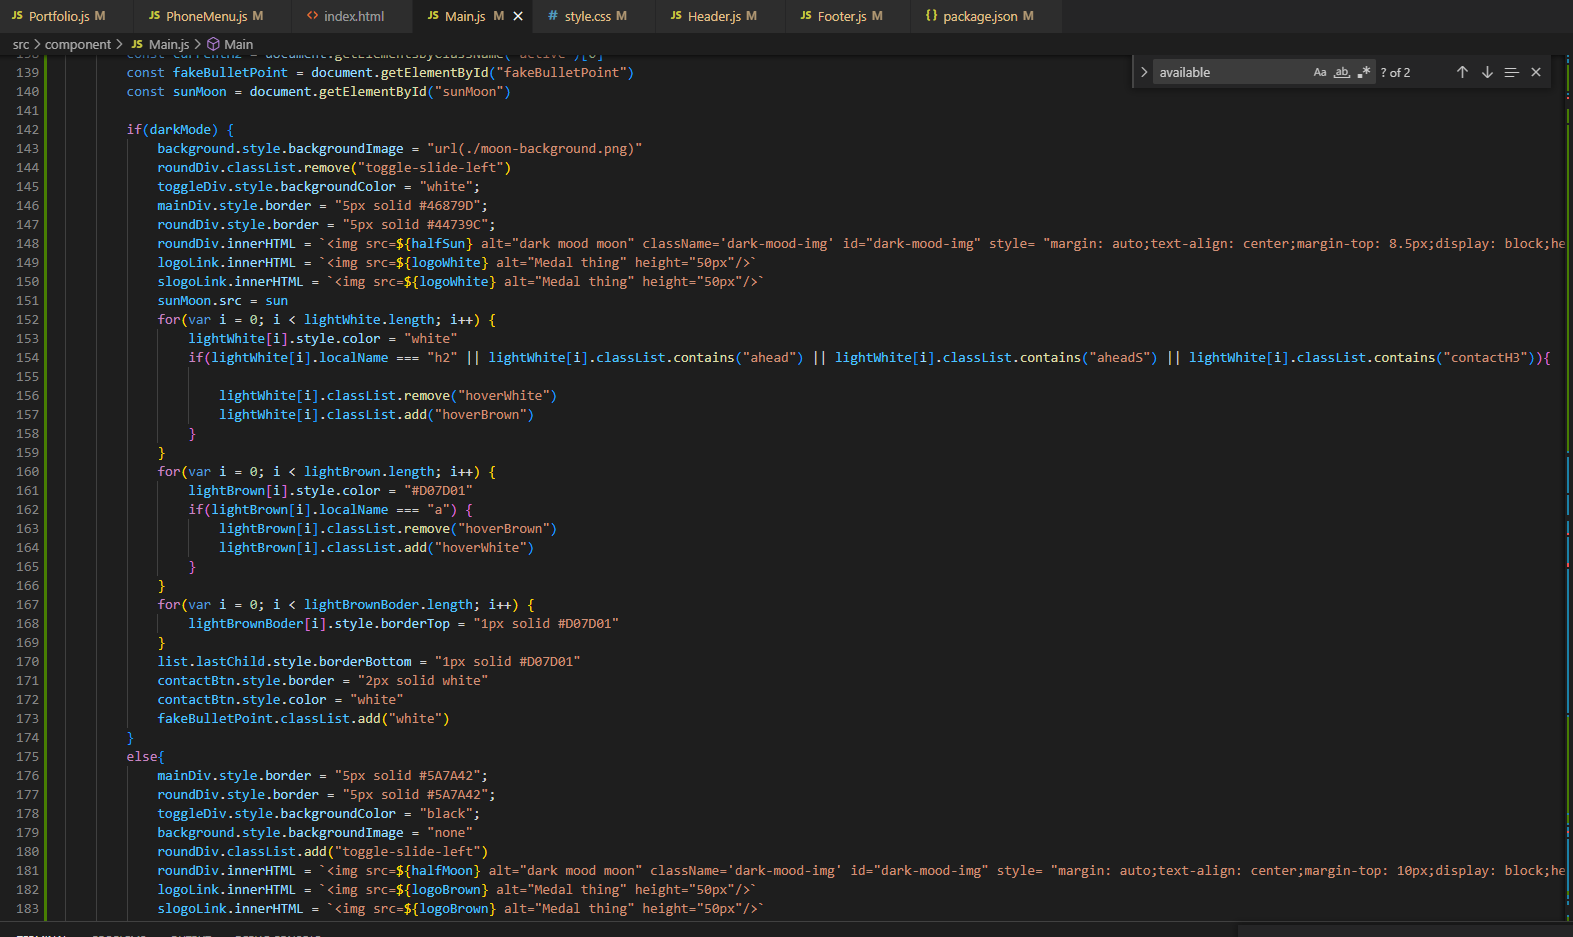
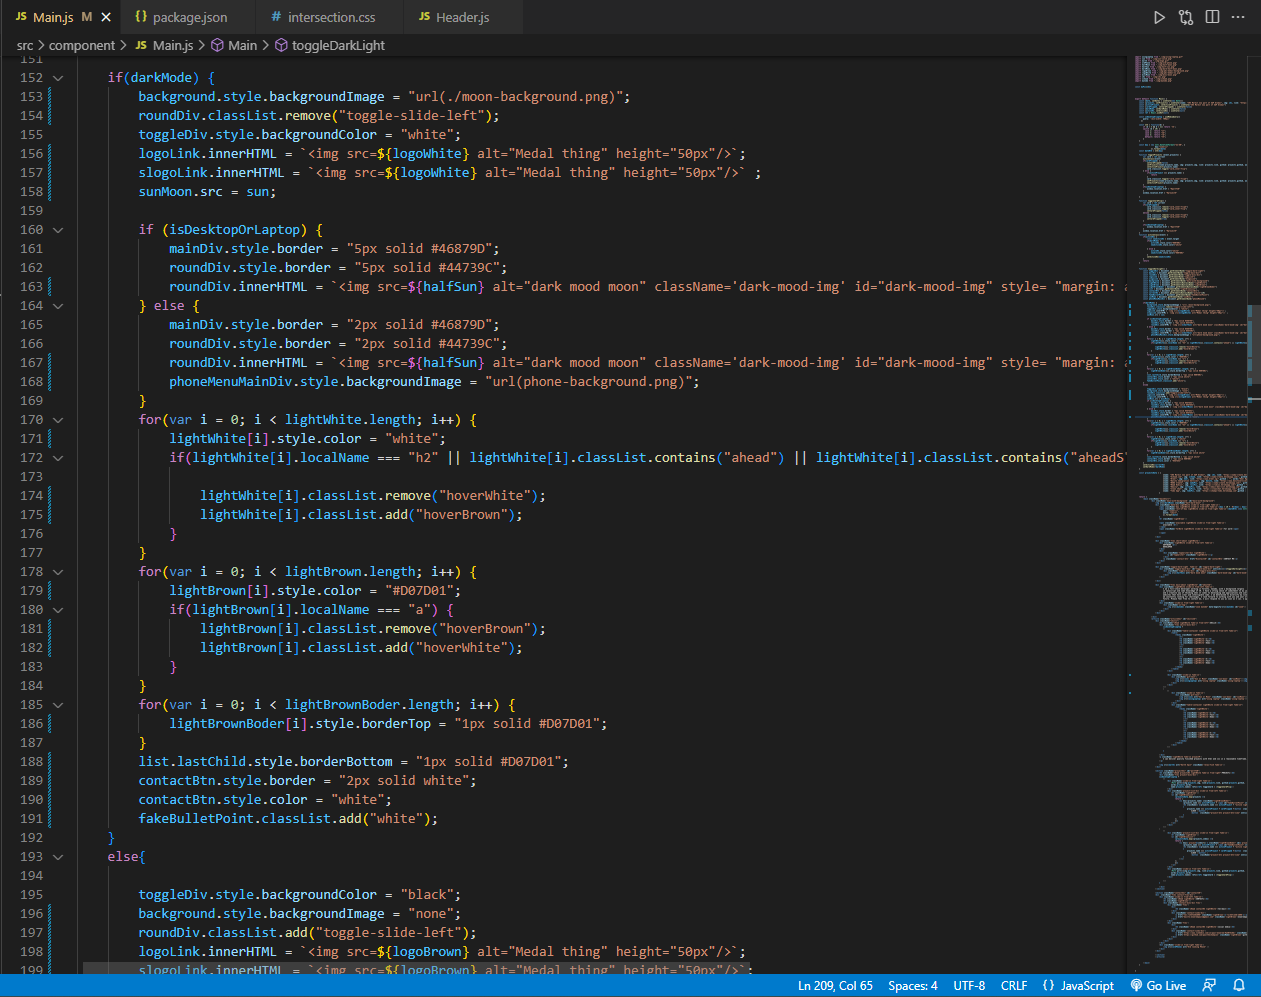
Done again i guess

diff --git a/src/component/Main.js b/src/component/Main.js
@@ -150,54 +150,54 @@ export default function Main() {
         const phoneMenuMainDiv = document.getElementById("phoneMenuId")
 
         if(darkMode) {
-            background.style.backgroundImage = "url(./moon-background.png)"
-            roundDiv.classList.remove("toggle-slide-left")
+            background.style.backgroundImage = "url(./moon-background.png)";
+            roundDiv.classList.remove("toggle-slide-left");
             toggleDiv.style.backgroundColor = "white";
-            logoLink.innerHTML = `<img src=${logoWhite} alt="Medal thing" height="50px"/>`
-            slogoLink.innerHTML = `<img src=${logoWhite} alt="Medal thing" height="50px"/>` 
-            sunMoon.src = sun
+            logoLink.innerHTML = `<img src=${logoWhite} alt="Medal thing" height="50px"/>`;
+            slogoLink.innerHTML = `<img src=${logoWhite} alt="Medal thing" height="50px"/>` ;
+            sunMoon.src = sun;
 
             if (isDesktopOrLaptop) {
                 mainDiv.style.border = "5px solid #46879D";
                 roundDiv.style.border = "5px solid #44739C";
-                roundDiv.innerHTML = `<img src=${halfSun} alt="dark mood moon" className='dark-mood-img' id="dark-mood-img" style= "margin: auto;text-align: center;margin-top: 8.5px;display: block;height: 25px;"/>` 
+                roundDiv.innerHTML = `<img src=${halfSun} alt="dark mood moon" className='dark-mood-img' id="dark-mood-img" style= "margin: auto;text-align: center;margin-top: 8.5px;display: block;height: 25px;"/>`;
             } else {
                 mainDiv.style.border = "2px solid #46879D";
                 roundDiv.style.border = "2px solid #44739C";
-                roundDiv.innerHTML = `<img src=${halfSun} alt="dark mood moon" className='dark-mood-img' id="dark-mood-img" style= "margin: auto;text-align: center;margin-top: 4px;display: block;height: 18px;"/>` 
-                phoneMenuMainDiv.style.backgroundImage = "url(phone-background.png)"
+                roundDiv.innerHTML = `<img src=${halfSun} alt="dark mood moon" className='dark-mood-img' id="dark-mood-img" style= "margin: auto;text-align: center;margin-top: 4px;display: block;height: 18px;"/>`;
+                phoneMenuMainDiv.style.backgroundImage = "url(phone-background.png)";
             }
             for(var i = 0; i < lightWhite.length; i++) {
-                lightWhite[i].style.color = "white"
+                lightWhite[i].style.color = "white";
                 if(lightWhite[i].localName === "h2" || lightWhite[i].classList.contains("ahead") || lightWhite[i].classList.contains("aheadS") || lightWhite[i].classList.contains("contactH3")){
                    
-                    lightWhite[i].classList.remove("hoverWhite")
-                    lightWhite[i].classList.add("hoverBrown")
+                    lightWhite[i].classList.remove("hoverWhite");
+                    lightWhite[i].classList.add("hoverBrown");
                 }
             }
             for(var i = 0; i < lightBrown.length; i++) {
-                lightBrown[i].style.color = "#D07D01"
+                lightBrown[i].style.color = "#D07D01";
                 if(lightBrown[i].localName === "a") {
-                    lightBrown[i].classList.remove("hoverBrown")
-                    lightBrown[i].classList.add("hoverWhite")
+                    lightBrown[i].classList.remove("hoverBrown");
+                    lightBrown[i].classList.add("hoverWhite");
                 }
             }
             for(var i = 0; i < lightBrownBoder.length; i++) {
-                lightBrownBoder[i].style.borderTop = "1px solid #D07D01"
+                lightBrownBoder[i].style.borderTop = "1px solid #D07D01";
             }
-            list.lastChild.style.borderBottom = "1px solid #D07D01"
-            contactBtn.style.border = "2px solid white"
-            contactBtn.style.color = "white"
-            fakeBulletPoint.classList.add("white")
+            list.lastChild.style.borderBottom = "1px solid #D07D01";
+            contactBtn.style.border = "2px solid white";
+            contactBtn.style.color = "white";
+            fakeBulletPoint.classList.add("white");
         }
         else{
             
             toggleDiv.style.backgroundColor = "black";
-            background.style.backgroundImage = "none"
-            roundDiv.classList.add("toggle-slide-left")
-            logoLink.innerHTML = `<img src=${logoBrown} alt="Medal thing" height="50px"/>`
-            slogoLink.innerHTML = `<img src=${logoBrown} alt="Medal thing" height="50px"/>` 
-            sunMoon.src = miniMoon
+            background.style.backgroundImage = "none";
+            roundDiv.classList.add("toggle-slide-left");
+            logoLink.innerHTML = `<img src=${logoBrown} alt="Medal thing" height="50px"/>`;
+            slogoLink.innerHTML = `<img src=${logoBrown} alt="Medal thing" height="50px"/>`;
+            sunMoon.src = miniMoon;
             if (isDesktopOrLaptop) {
                 mainDiv.style.border = "5px solid #5A7A42";
                 roundDiv.style.border = "5px solid #5A7A42";
@@ -206,7 +206,7 @@ export default function Main() {
                 mainDiv.style.border = "2px solid #5A7A42";
                 roundDiv.style.border = "2px solid #5A7A42";
                 roundDiv.innerHTML = `<img src=${halfMoon} alt="dark mood moon" className='dark-mood-img' id="dark-mood-img" style= "margin: auto;text-align: center;margin-top: 7px;display: block;height: 11px;"/>`  
-                phoneMenuMainDiv.style.backgroundImage = "none"
+                phoneMenuMainDiv.style.backgroundImage = "none";
             }
             for(var i = 0; i < lightWhite.length; i++) {
                 lightWhite[i].style.color = "#D07D01"
@@ -335,7 +335,7 @@ export default function Main() {
                                     </table>
                                 </div>
 
-                                <div className='slide-in from-right fade-in'>
+                                <div className='slide-in fade-in'>
                                     <div className='gif-test'>
                                         <img src={sun} alt="Sun or Moon" className='sun-moon' id="sunMoon"></img>
                                         <img src={usingLaptop} alt="using laptop" className='using-laptop'></img>
@@ -344,7 +344,7 @@ export default function Main() {
                             </>
                             :
                                 <>
-                                    <div className='slide-in from-left fade-in'>
+                                    <div className='slide-in fade-in'>
                                         <div className='gif-test'>
                                             <img src={sun} alt="Sun or Moon" className='sun-moon' id="sunMoon"></img>
                                             <img src={usingLaptop} alt="using laptop" className='using-laptop'></img>
